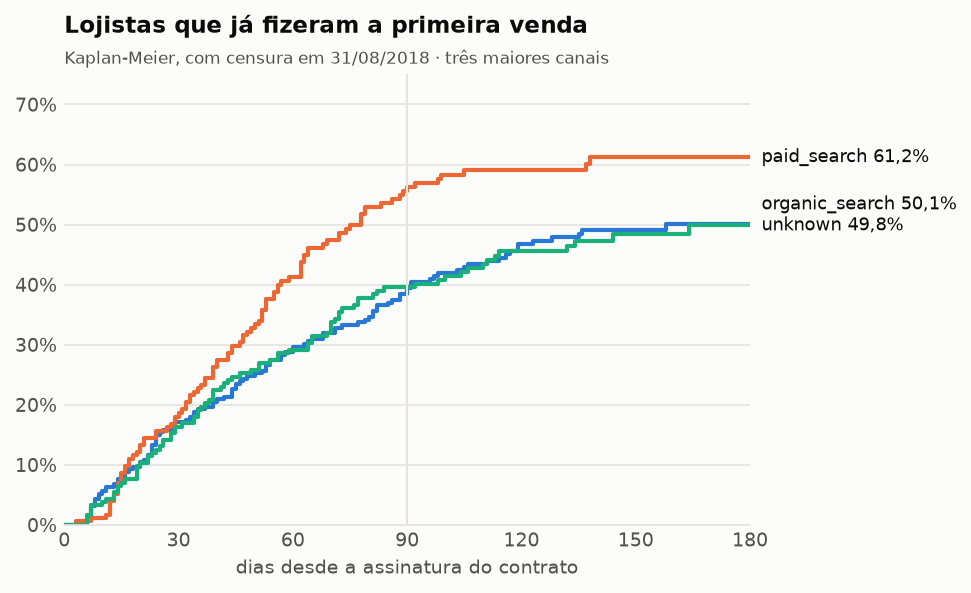
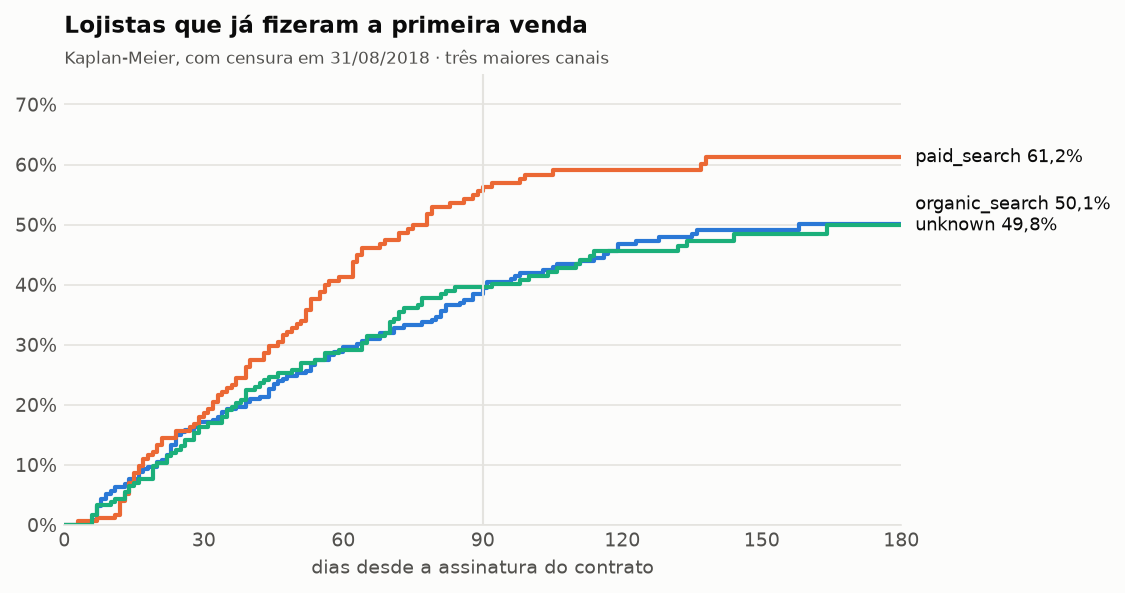
painel estático no lugar do Metabase

diff --git a/reconcile/painel.py b/reconcile/painel.py
@@ -1,0 +1,94 @@
+from pathlib import Path
+
+import duckdb
+
+from reconcile import graficos
+from reconcile.formato import mes_extenso, milhoes, numero, reais
+from reconcile.pontes import Respostas, camada_unica, respostas
+
+MESES = [f"2018-{m:02d}" for m in range(1, 9)]
+
+COLUNAS = [
+    ("lojistas_contratados", "contratados", numero),
+    ("lojistas_ativados", "ativados", numero),
+    ("leads", "leads", numero),
+    ("clientes_novos", "clientes novos", numero),
+    ("pedidos_validos", "pedidos válidos", numero),
+    ("receita_bruta", "receita bruta", milhoes),
+    ("receita_paga", "receita paga", milhoes),
+    ("ticket_medio", "ticket médio", reais),
+]
+
+
+def _serie(r: Respostas, area: str, pergunta: str) -> dict[str, float]:
+    return {m: r[(area, pergunta, m)] for m in MESES if (area, pergunta, m) in r}
+
+
+def _tabela(oficial: dict[str, dict[str, float]]) -> list[str]:
+    cabecalho = "| mês | " + " | ".join(nome for _, nome, _ in COLUNAS) + " |"
+    return [
+        cabecalho,
+        "|---|" + "---:|" * len(COLUNAS),
+        *(
+            f"| {mes_extenso(m)} | "
+            + " | ".join(fmt(oficial[m][k]) for k, _, fmt in COLUNAS)
+            + " |"
+            for m in MESES
+        ),
+    ]
+
+
+def gerar(db_path: Path, pasta: Path) -> Path:
+    with duckdb.connect(str(db_path), read_only=True) as con:
+        r = respostas(con)
+        oficial = {m: camada_unica(con, m) for m in MESES}
+
+    graficos.linhas_por_mes(
+        {
+            nome: _serie(r, area, "lojistas conquistados")
+            for nome, area in [
+                ("marketing", "marketing"),
+                ("vendas", "vendas"),
+                ("operação", "operacao"),
+            ]
+        },
+        "Lojistas conquistados por mês, segundo cada área",
+        "o número de vendas é o oficial: lojistas contratados, pela data do contrato",
+        numero,
+        pasta / "img" / "painel_lojistas.png",
+    )
+    graficos.linhas_por_mes(
+        {
+            "vendas": _serie(r, "vendas", "receita"),
+            "financeiro": _serie(r, "financeiro", "receita"),
+            "oficial": {m: oficial[m]["receita_bruta"] for m in MESES},
+        },
+        "Receita por mês, segundo cada área e pela camada única",
+        "oficial: itens + frete de pedidos válidos, pela data da compra",
+        lambda v: milhoes(v, 2),
+        pasta / "img" / "painel_receita.png",
+    )
+
+    texto = [
+        "# Painel",
+        "",
+        "Gerado por `reconcile painel` a partir dos marts. Não edite os números à mão.",
+        "",
+        "Cada número desta página vem da camada única, com as regras do "
+        "[contrato de métricas](contrato_de_metricas.md). Os gráficos mostram, ao lado, o que "
+        "cada área responderia sozinha.",
+        "",
+        "![Lojistas por área](img/painel_lojistas.png)",
+        "",
+        "![Receita por área](img/painel_receita.png)",
+        "",
+        "## As métricas do contrato, mês a mês",
+        "",
+        *_tabela(oficial),
+        "",
+        "Setembro e outubro de 2018 ficam de fora: a base tem 20 pedidos nesses meses.",
+        "",
+    ]
+    saida = pasta / "painel.md"
+    saida.write_text("\n".join(texto), encoding="utf-8", newline="\n")
+    return saida

diff --git a/tests/test_painel.py b/tests/test_painel.py
@@ -1,0 +1,8 @@
+from reconcile import painel
+
+
+def test_painel_tem_graficos_e_uma_linha_por_mes(db_amostra_staging, tmp_path):
+    texto = painel.gerar(db_amostra_staging, tmp_path).read_text(encoding="utf-8")
+    assert (tmp_path / "img" / "painel_lojistas.png").exists()
+    assert (tmp_path / "img" / "painel_receita.png").exists()
+    assert sum(linha.startswith("| ") and "/2018 |" in linha for linha in texto.splitlines()) == 8

diff --git a/docs/painel.md b/docs/painel.md
@@ -1,0 +1,24 @@
+# Painel
+
+Gerado por `reconcile painel` a partir dos marts. Não edite os números à mão.
+
+Cada número desta página vem da camada única, com as regras do [contrato de métricas](contrato_de_metricas.md). Os gráficos mostram, ao lado, o que cada área responderia sozinha.
+
+![Lojistas por área](img/painel_lojistas.png)
+
+![Receita por área](img/painel_receita.png)
+
+## As métricas do contrato, mês a mês
+
+| mês | contratados | ativados | leads | clientes novos | pedidos válidos | receita bruta | receita paga | ticket médio |
+|---|---:|---:|---:|---:|---:|---:|---:|---:|
+| jan/2018 | 73 | 3 | 1.141 | 6.951 | 7.187 | R$ 1,1 mi | R$ 1,1 mi | R$ 153,32 |
+| fev/2018 | 113 | 27 | 1.028 | 6.356 | 6.624 | R$ 1,0 mi | R$ 1,0 mi | R$ 147,87 |
+| mar/2018 | 147 | 25 | 1.174 | 6.931 | 7.168 | R$ 1,2 mi | R$ 1,2 mi | R$ 160,81 |
+| abr/2018 | 207 | 62 | 1.352 | 6.698 | 6.919 | R$ 1,2 mi | R$ 1,1 mi | R$ 167,11 |
+| mai/2018 | 122 | 81 | 1.303 | 6.586 | 6.833 | R$ 1,1 mi | R$ 1,2 mi | R$ 167,67 |
+| jun/2018 | 57 | 82 | 0 | 5.920 | 6.145 | R$ 1,0 mi | R$ 1,0 mi | R$ 166,05 |
+| jul/2018 | 37 | 60 | 0 | 6.017 | 6.233 | R$ 1,0 mi | R$ 1,0 mi | R$ 166,82 |
+| ago/2018 | 33 | 39 | 0 | 6.209 | 6.421 | R$ 1,0 mi | R$ 1,0 mi | R$ 155,27 |
+
+Setembro e outubro de 2018 ficam de fora: a base tem 20 pedidos nesses meses.

diff --git a/docs/adr/0004-painel-estatico-no-lugar-do-metabase.md b/docs/adr/0004-painel-estatico-no-lugar-do-metabase.md
@@ -1,0 +1,21 @@
+# ADR 0004: Painel estático no lugar do Metabase
+
+- **Status:** aceita, substitui a [ADR 0003](0003-metabase-como-bi.md)
+- **Data:** 2026-10-15
+
+## Contexto
+
+A ADR 0003 escolheu o Metabase em Docker como painel. Na prática, duas coisas pesaram contra:
+
+- A máquina do projeto tem 4 GB de RAM. O Metabase (Java) ocupa perto de 1 GB e o arquivo do DuckDB não pode estar aberto para escrita enquanto o painel lê.
+- Quem avalia o projeto teria de subir um contêiner para ver um único gráfico. O painel existia, mas ninguém o veria.
+
+## Decisão
+
+`reconcile painel` gera `docs/painel.md` com gráficos em PNG e a tabela mensal das métricas do contrato, lidos só dos marts. O GitHub mostra a página sem instalar nada.
+
+## Consequências
+
+- A regra da ADR 0003 continua: o painel lê só a camada única.
+- Perde-se a exploração interativa. Para perguntas fora do painel, há `reconcile metricas` (camada semântica) e o agente.
+- Os arquivos do Docker saíram do repositório.

diff --git a/docs/adr/0003-metabase-como-bi.md b/docs/adr/0003-metabase-como-bi.md
@@ -1,6 +1,6 @@
 # ADR 0003: Metabase como BI, lendo só os marts
 
-- **Status:** aceita
+- **Status:** substituída pela [ADR 0004](0004-painel-estatico-no-lugar-do-metabase.md)
 - **Data:** 2026-10-10
 
 ## Contexto
